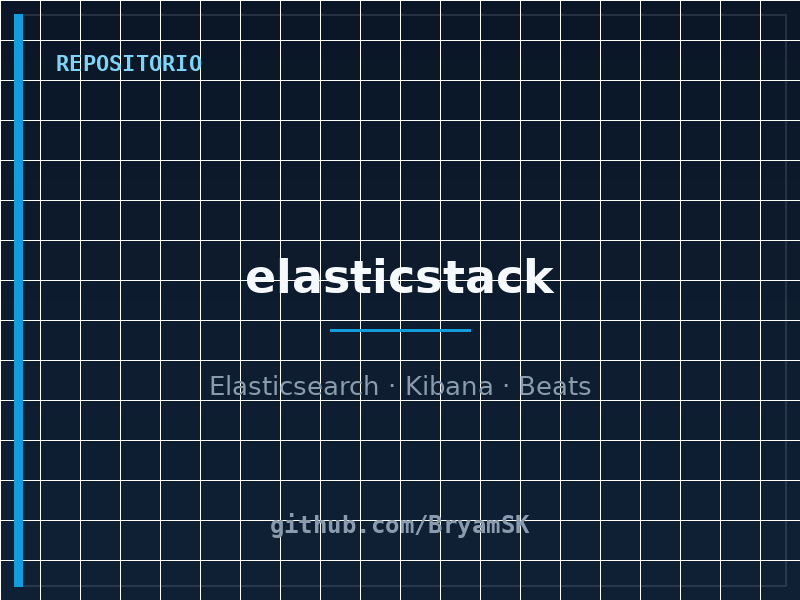
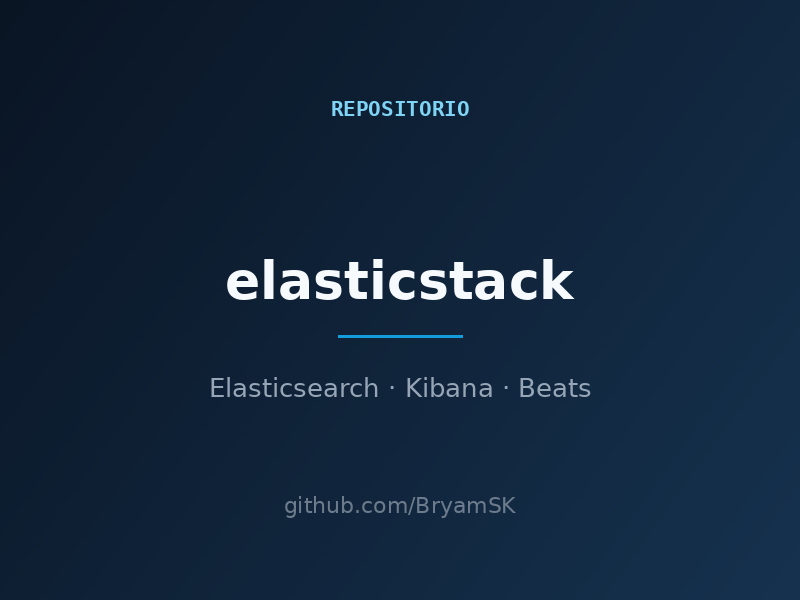
Proyectos: reemplaza las capturas de fondo blanco por miniaturas oscuras del mismo estilo (heartbeat-elastic y hogario.net) y rediseña las miniaturas sin rejilla ni marcos

diff --git a/en.html b/en.html
@@ -489,19 +489,19 @@
 
       <div class="col-lg-4 col-md-6 portfolio-item">
         <div class="portfolio-wrap">
-          <img src="assets/img/portfolio/repo-heartbeat.jpg" class="img-fluid" alt="">
+          <img src="assets/img/portfolio/repo-heartbeat.png" class="img-fluid" alt="">
           <div class="portfolio-links">
-            <a href="assets/img/portfolio/repo-heartbeat.jpg" data-gall="proyectosGallery" class="venobox" title="elk-heartbeat"><i class="bx bx-plus"></i></a>
-            <a href="https://github.com/BryamSK/heartbeat-elastic" target="_blank" title="elk-heartbeat"><i class="bx bx-link"></i></a>
+            <a href="assets/img/portfolio/repo-heartbeat.png" data-gall="proyectosGallery" class="venobox" title="heartbeat-elastic — Monitores de disponibilidad y uptime con ELK"><i class="bx bx-plus"></i></a>
+            <a href="https://github.com/BryamSK/heartbeat-elastic" target="_blank" title="heartbeat-elastic — Monitores de disponibilidad y uptime con ELK"><i class="bx bx-link"></i></a>
           </div>
         </div>
       </div>
       <div class="col-lg-4 col-md-6 portfolio-item">
         <div class="portfolio-wrap">
-          <img src="assets/img/portfolio/pag-web-hog.JPG" class="img-fluid" alt="">
+          <img src="assets/img/portfolio/proy-hogario.png" class="img-fluid" alt="">
           <div class="portfolio-links">
-            <a href="assets/img/portfolio/pag-web-hog.JPG" data-gall="proyectosGallery" class="venobox" title="hogario.net"><i class="bx bx-plus"></i></a>
-            <a href="https://www.hogario.net/" target="_blank" title="hogario.net"><i class="bx bx-link"></i></a>
+            <a href="assets/img/portfolio/proy-hogario.png" data-gall="proyectosGallery" class="venobox" title="hogario.net — Sitio web (HTML, CSS y hosting)"><i class="bx bx-plus"></i></a>
+            <a href="https://www.hogario.net/" target="_blank" title="hogario.net — Sitio web (HTML, CSS y hosting)"><i class="bx bx-link"></i></a>
           </div>
         </div>
       </div>

diff --git a/index.html b/index.html
@@ -489,19 +489,19 @@
 
       <div class="col-lg-4 col-md-6 portfolio-item">
         <div class="portfolio-wrap">
-          <img src="assets/img/portfolio/repo-heartbeat.jpg" class="img-fluid" alt="">
+          <img src="assets/img/portfolio/repo-heartbeat.png" class="img-fluid" alt="">
           <div class="portfolio-links">
-            <a href="assets/img/portfolio/repo-heartbeat.jpg" data-gall="proyectosGallery" class="venobox" title="elk-heartbeat"><i class="bx bx-plus"></i></a>
-            <a href="https://github.com/BryamSK/heartbeat-elastic" target="_blank" title="elk-heartbeat"><i class="bx bx-link"></i></a>
+            <a href="assets/img/portfolio/repo-heartbeat.png" data-gall="proyectosGallery" class="venobox" title="heartbeat-elastic — Monitores de disponibilidad y uptime con ELK"><i class="bx bx-plus"></i></a>
+            <a href="https://github.com/BryamSK/heartbeat-elastic" target="_blank" title="heartbeat-elastic — Monitores de disponibilidad y uptime con ELK"><i class="bx bx-link"></i></a>
           </div>
         </div>
       </div>
       <div class="col-lg-4 col-md-6 portfolio-item">
         <div class="portfolio-wrap">
-          <img src="assets/img/portfolio/pag-web-hog.JPG" class="img-fluid" alt="">
+          <img src="assets/img/portfolio/proy-hogario.png" class="img-fluid" alt="">
           <div class="portfolio-links">
-            <a href="assets/img/portfolio/pag-web-hog.JPG" data-gall="proyectosGallery" class="venobox" title="hogario.net"><i class="bx bx-plus"></i></a>
-            <a href="https://www.hogario.net/" target="_blank" title="hogario.net"><i class="bx bx-link"></i></a>
+            <a href="assets/img/portfolio/proy-hogario.png" data-gall="proyectosGallery" class="venobox" title="hogario.net — Sitio web (HTML, CSS y hosting)"><i class="bx bx-plus"></i></a>
+            <a href="https://www.hogario.net/" target="_blank" title="hogario.net — Sitio web (HTML, CSS y hosting)"><i class="bx bx-link"></i></a>
           </div>
         </div>
       </div>
